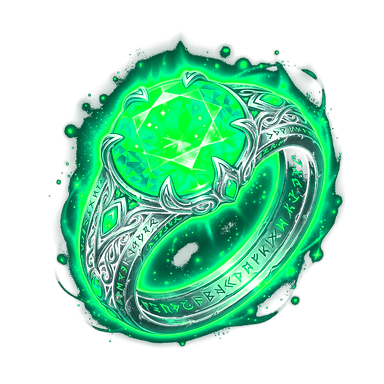
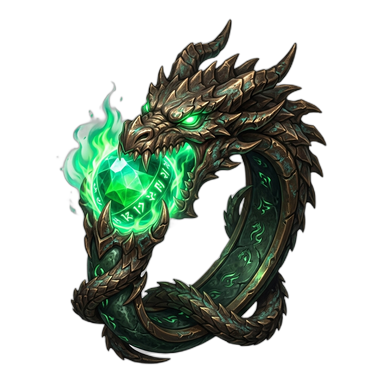
feat(packages): add 10 boss chests per 1 royal chest to all packages

diff --git a/src/App.jsx b/src/App.jsx
@@ -53,8 +53,9 @@ const BOSS_GAME_PACKAGES = [
     badgeColor: 'from-emerald-500 to-teal-500',
     coins: 200,
     royalChests: 2,
+    bossChests: 20,
     attacks: 2000,
-    extraDesc: '200 Xu + 2 Rương Hoàng Kim + 2.000 Lượt Đánh',
+    extraDesc: '200 Xu + 2 Rương Hoàng Kim + 20 Rương Boss + 2.000 Lượt Đánh',
     image: '/game-assets/royal_chest.png',
     items: []
   },
@@ -66,8 +67,9 @@ const BOSS_GAME_PACKAGES = [
     badgeColor: 'from-blue-500 to-cyan-500',
     coins: 500,
     royalChests: 5,
+    bossChests: 50,
     attacks: 5000,
-    extraDesc: '500 Xu + 5 Rương Hoàng Kim + 5.000 Lượt Đánh',
+    extraDesc: '500 Xu + 5 Rương Hoàng Kim + 50 Rương Boss + 5.000 Lượt Đánh',
     image: '/game-assets/royal_chest.png',
     items: []
   },
@@ -79,8 +81,9 @@ const BOSS_GAME_PACKAGES = [
     badgeColor: 'from-indigo-500 to-purple-500',
     coins: 1000,
     royalChests: 10,
+    bossChests: 100,
     attacks: 10000,
-    extraDesc: '1.000 Xu + 10 Rương Hoàng Kim + 10.000 Lượt Đánh',
+    extraDesc: '1.000 Xu + 10 Rương Hoàng Kim + 100 Rương Boss + 10.000 Lượt Đánh',
     image: '/game-assets/royal_chest.png',
     items: []
   },
@@ -92,8 +95,9 @@ const BOSS_GAME_PACKAGES = [
     badgeColor: 'from-purple-500 to-pink-500',
     coins: 2000,
     royalChests: 20,
+    bossChests: 200,
     attacks: 20000,
-    extraDesc: '2.000 Xu + 20 Rương Hoàng Kim + 20.000 Lượt Đánh',
+    extraDesc: '2.000 Xu + 20 Rương Hoàng Kim + 200 Rương Boss + 20.000 Lượt Đánh',
     image: '/game-assets/royal_chest.png',
     items: []
   },
@@ -105,8 +109,9 @@ const BOSS_GAME_PACKAGES = [
     badgeColor: 'from-amber-500 to-orange-500',
     coins: 6000,
     royalChests: 60,
+    bossChests: 600,
     attacks: 60000,
-    extraDesc: '6.000 Xu Game VIP + 60 Rương Hoàng Kim + 60.000 Lượt Đánh (KM +20%)',
+    extraDesc: '6.000 Xu Game VIP + 60 Rương Hoàng Kim + 600 Rương Boss + 60.000 Lượt Đánh (KM +20%)',
     image: '/game-assets/royal_chest.png',
     items: []
   },
@@ -118,8 +123,9 @@ const BOSS_GAME_PACKAGES = [
     badgeColor: 'from-rose-500 to-red-600',
     coins: 13000,
     royalChests: 130,
+    bossChests: 1300,
     attacks: 130000,
-    extraDesc: '13.000 Xu Game VIP + 130 Rương Hoàng Kim + 130.000 Lượt Đánh (KM +30%)',
+    extraDesc: '13.000 Xu Game VIP + 130 Rương Hoàng Kim + 1.300 Rương Boss + 130.000 Lượt Đánh (KM +30%)',
     image: '/game-assets/royal_chest.png',
     items: []
   },
@@ -131,8 +137,9 @@ const BOSS_GAME_PACKAGES = [
     badgeColor: 'from-emerald-400 to-green-600 shadow-[0_0_15px_rgba(16,185,129,0.4)]',
     coins: 20000,
     royalChests: 200,
+    bossChests: 2000,
     attacks: 200000,
-    extraDesc: '20.000 Xu + 200 Rương HK + 200.000 Lượt + 💥 1x Nhẫn Cổ Đại 5⭐',
+    extraDesc: '20.000 Xu + 200 Rương HK + 2.000 Rương Boss + 200.000 Lượt + 💥 1x Nhẫn Cổ Đại 5⭐',
     image: '/game-assets/ring_codai.png',
     items: [
       {
@@ -158,8 +165,9 @@ const BOSS_GAME_PACKAGES = [
     badgeColor: 'from-yellow-400 via-amber-500 to-red-600 shadow-[0_0_20px_rgba(234,179,8,0.6)] animate-pulse',
     coins: 37500,
     royalChests: 375,
+    bossChests: 3750,
     attacks: 375000,
-    extraDesc: '37.500 Xu + 375 Rương HK + 375.000 Lượt + 🌌 1x Nhẫn Thượng Cổ 1⭐',
+    extraDesc: '37.500 Xu + 375 Rương HK + 3.750 Rương Boss + 375.000 Lượt + 🌌 1x Nhẫn Thượng Cổ 1⭐',
     image: '/game-assets/ring_thuongco.png',
     items: [
       {
@@ -2997,6 +3005,50 @@ const App = () => {
   };
 
 
+  // --- HÀM CHUẨN HÓA DỮ LIỆU NGƯỜI CHƠI TỪ BẢNG GAME_PLAYERS (SUPABASE) ---
+  const parseGamePlayerRecord = (dbPlayer) => {
+    if (!dbPlayer) return null;
+    let wp = null, ar = null, nk = null, rg = null, pt = null;
+    try { wp = dbPlayer.weapon ? (typeof dbPlayer.weapon === 'string' ? JSON.parse(dbPlayer.weapon) : dbPlayer.weapon) : null; } catch (e) { wp = { name: dbPlayer.weapon }; }
+    try { ar = dbPlayer.armor ? (typeof dbPlayer.armor === 'string' ? JSON.parse(dbPlayer.armor) : dbPlayer.armor) : null; } catch (e) { ar = { name: dbPlayer.armor }; }
+    try { nk = dbPlayer.necklace ? (typeof dbPlayer.necklace === 'string' ? JSON.parse(dbPlayer.necklace) : dbPlayer.necklace) : null; } catch (e) { nk = { name: dbPlayer.necklace }; }
+    try { rg = dbPlayer.ring ? (typeof dbPlayer.ring === 'string' ? JSON.parse(dbPlayer.ring) : dbPlayer.ring) : null; } catch (e) { rg = { name: dbPlayer.ring }; }
+    try { pt = dbPlayer.pet ? (typeof dbPlayer.pet === 'string' ? JSON.parse(dbPlayer.pet) : dbPlayer.pet) : null; } catch (e) { pt = { name: dbPlayer.pet }; }
+
+    return {
+      exists: true,
+      user_id: dbPlayer.user_id,
+      nickname: dbPlayer.nickname || dbPlayer.user_id,
+      level: dbPlayer.level || 1,
+      cp: dbPlayer.cp || 0,
+      bonus_attacks: dbPlayer.bonus_attacks || 0,
+      royal_chests: dbPlayer.royal_chests || 0,
+      boss_chests: dbPlayer.boss_chests || 0,
+      avatar_url: dbPlayer.avatar_url,
+      weapon: wp,
+      armor: ar,
+      pet: pt,
+      ring: rg,
+      necklace: nk,
+      exp: wp?.player_exp || 0,
+      bonus_coins: (wp?.player_coins !== undefined && wp?.player_coins !== null) ? Number(wp.player_coins) : (dbPlayer.bonus_coins || dbPlayer.coins || 0),
+      total_dmg: wp?.total_dmg || 0,
+      has_x2_rate: wp?.has_x2_rate || false,
+      platform: wp?.platform || 'tiktok',
+      inventory: (() => {
+        const raw = wp?.inventory || dbPlayer?.inventory;
+        if (Array.isArray(raw)) return raw;
+        if (typeof raw === 'string') {
+          try {
+            const pJson = JSON.parse(raw);
+            if (Array.isArray(pJson)) return pJson;
+          } catch (e) { }
+        }
+        return [];
+      })()
+    };
+  };
+
   // --- HÀM TRA CỨU NGƯỜI CHƠI GAME BOSS MỘNG THIÊN HUYỄN ---
   const handleCheckBossPlayer = async (targetIdInput, isSilent = true) => {
     const rawId = (targetIdInput !== undefined ? targetIdInput : bossTargetId).trim();
@@ -3019,45 +3071,7 @@ const App = () => {
           .maybeSingle();
 
         if (dbPlayer) {
-          let wp = null, ar = null, nk = null, rg = null, pt = null;
-          try { wp = dbPlayer.weapon ? (typeof dbPlayer.weapon === 'string' ? JSON.parse(dbPlayer.weapon) : dbPlayer.weapon) : null; } catch (e) { wp = { name: dbPlayer.weapon }; }
-          try { ar = dbPlayer.armor ? (typeof dbPlayer.armor === 'string' ? JSON.parse(dbPlayer.armor) : dbPlayer.armor) : null; } catch (e) { ar = { name: dbPlayer.armor }; }
-          try { nk = dbPlayer.necklace ? (typeof dbPlayer.necklace === 'string' ? JSON.parse(dbPlayer.necklace) : dbPlayer.necklace) : null; } catch (e) { nk = { name: dbPlayer.necklace }; }
-          try { rg = dbPlayer.ring ? (typeof dbPlayer.ring === 'string' ? JSON.parse(dbPlayer.ring) : dbPlayer.ring) : null; } catch (e) { rg = { name: dbPlayer.ring }; }
-          try { pt = dbPlayer.pet ? (typeof dbPlayer.pet === 'string' ? JSON.parse(dbPlayer.pet) : dbPlayer.pet) : null; } catch (e) { pt = { name: dbPlayer.pet }; }
-
-          foundPlayer = {
-            exists: true,
-            user_id: dbPlayer.user_id,
-            nickname: dbPlayer.nickname || dbPlayer.user_id,
-            level: dbPlayer.level || 1,
-            cp: dbPlayer.cp || 0,
-            bonus_attacks: dbPlayer.bonus_attacks || 0,
-            royal_chests: dbPlayer.royal_chests || 0,
-            boss_chests: dbPlayer.boss_chests || 0,
-            avatar_url: dbPlayer.avatar_url,
-            weapon: wp,
-            armor: ar,
-            pet: pt,
-            ring: rg,
-            necklace: nk,
-            exp: wp?.player_exp || 0,
-            bonus_coins: (wp?.player_coins !== undefined && wp?.player_coins !== null) ? Number(wp.player_coins) : (dbPlayer.bonus_coins || dbPlayer.coins || 0),
-            total_dmg: wp?.total_dmg || 0,
-            has_x2_rate: wp?.has_x2_rate || false,
-            platform: wp?.platform || 'tiktok',
-            inventory: (() => {
-              const raw = wp?.inventory || dbPlayer?.inventory;
-              if (Array.isArray(raw)) return raw;
-              if (typeof raw === 'string') {
-                try {
-                  const pJson = JSON.parse(raw);
-                  if (Array.isArray(pJson)) return pJson;
-                } catch (e) { }
-              }
-              return [];
-            })()
-          };
+          foundPlayer = parseGamePlayerRecord(dbPlayer);
         }
       } catch (err) {
         console.log("Supabase player lookup:", err);
@@ -3148,6 +3162,50 @@ const App = () => {
       handleCheckBossPlayer(bossTargetId);
     }
   }, [showBagModal]);
+
+  // --- TỰ ĐỘNG ĐỒNG BỘ REALTIME DỮ LIỆU GAME (GAME_PLAYERS) TỪ SUPABASE ---
+  useEffect(() => {
+    const gamePlayersChannel = supabase
+      .channel('realtime-game-players')
+      .on(
+        'postgres_changes',
+        { event: '*', schema: 'public', table: 'game_players' },
+        (payload) => {
+          const newRec = payload.new;
+          if (!newRec) return;
+
+          // 1. Cập nhật Sàn Đấu Giá Chợ Trời nếu có thay đổi vật phẩm từ game hoặc web
+          if (newRec.user_id === '__auction_market__') {
+            if (typeof fetchAuctionMarketData === 'function') {
+              fetchAuctionMarketData();
+            }
+            return;
+          }
+
+          // 2. Nhận diện nhân vật đang hiển thị trên giao diện hoặc nhân vật đã liên kết
+          const target = (bossTargetId || '').trim().toLowerCase().replace(/^@/, '');
+          const linked = (currentUser?.linked_game_id || '').trim().toLowerCase().replace(/^@/, '');
+          const rowUid = (newRec.user_id || '').trim().toLowerCase().replace(/^@/, '');
+          const rowNick = (newRec.nickname || '').trim().toLowerCase().replace(/^@/, '');
+
+          const isCurrentTarget = target && (rowUid === target || rowNick === target);
+          const isLinkedTarget = linked && (rowUid === linked || rowNick === linked);
+
+          if (isCurrentTarget || isLinkedTarget) {
+            const parsed = parseGamePlayerRecord(newRec);
+            if (parsed) {
+              setBossPlayerSummary(parsed);
+              setBossPlayerNotFound(false);
+            }
+          }
+        }
+      )
+      .subscribe();
+
+    return () => {
+      supabase.removeChannel(gamePlayersChannel);
+    };
+  }, [bossTargetId, currentUser?.linked_game_id]);
 
   // --- HÀM TẠO MÃ OTP LIÊN KẾT TÀI KHOẢN (REALTIME + POLLING + TAB FOCUS) ---
   const handleGenerateLinkOtp = async () => {
@@ -3573,7 +3631,7 @@ const App = () => {
       rewards: {
         attacks: pkg.attacks || 0,
         royal_chests: pkg.royalChests || 0,
-        boss_chests: 0,
+        boss_chests: pkg.bossChests || (pkg.royalChests ? pkg.royalChests * 10 : 0),
         coins: pkg.coins || 0,
         has_x2_rate: Boolean(pkg.hasX2Rate),
         items: pkg.items || []
@@ -3830,7 +3888,7 @@ const App = () => {
                           ⚔ Nạp Game Mộng Thiên Huyễn (Tự Động)
                         </h4>
                         <p className="text-[10px] md:text-xs text-slate-400 mb-2 flex-grow whitespace-pre-wrap text-center px-1 line-clamp-2">
-                          Nạp Xu Game, Rương Hoàng Kim, Lượt Đánh Boss & Nhẫn Thần Binh. Tự động chuyển quà vào acc ngay sau 1 giây!
+                          Nạp Xu Game, Rương Hoàng Kim, Rương Boss, Lượt Đánh Boss & Nhẫn Thần Binh. Tự động chuyển quà vào acc ngay sau 1 giây!
                         </p>
 
                         <div className="border-t border-slate-800 pt-2 md:pt-4 mt-auto w-full">
@@ -7288,7 +7346,7 @@ const App = () => {
               ⚔ NẠP GAME <span className="text-transparent bg-clip-text bg-gradient-to-r from-amber-400 via-rose-400 to-purple-400">MỘNG THIÊN HUYỄN</span>
             </h1>
             <p className="text-slate-300 max-w-3xl mx-auto text-sm md:text-base leading-relaxed mb-6">
-              Hệ thống tự động chuyển thẳng <strong className="text-amber-400">Lượt Đánh, Rương Hoàng Kim, Xu Nâng Cấp & Trang Bị Thần Binh</strong> vào tài khoản game của bạn ngay khi bấm Mua. Loa Livestream sẽ tự động đọc tên cảm ơn và hiệu ứng nạp VIP sẽ phát sáng rực rỡ!
+              Hệ thống tự động chuyển thẳng <strong className="text-amber-400">Lượt Đánh, Rương Hoàng Kim, Rương Boss, Xu Nâng Cấp & Trang Bị Thần Binh</strong> vào tài khoản game của bạn ngay khi bấm Mua. Loa Livestream sẽ tự động đọc tên cảm ơn và hiệu ứng nạp VIP sẽ phát sáng rực rỡ!
             </p>
 
             {/* KHU VỰC LIÊN KẾT TÀI KHOẢN & THÔNG TIN NHÂN VẬT GAME (BỎ KIỂM TRA ID) */}
@@ -7541,6 +7599,10 @@ const App = () => {
                         <Crown size={15} className="text-yellow-400 shrink-0" />
                         <span>+{pkg.royalChests} Rương Hoàng Kim VIP</span>
                       </div>
+                      <div className="flex items-center gap-2 text-amber-300 font-semibold px-1">
+                        <Package size={15} className="text-amber-400 shrink-0" />
+                        <span>+{new Intl.NumberFormat('vi-VN').format(pkg.bossChests || pkg.royalChests * 10)} Rương Boss (Tặng Kèm)</span>
+                      </div>
                       <div className="flex items-center gap-2 text-slate-200 font-semibold px-1">
                         <Swords size={15} className="text-rose-400 shrink-0" />
                         <span>+{new Intl.NumberFormat('vi-VN').format(pkg.attacks)} Lượt Đánh Boss</span>
@@ -7649,6 +7711,7 @@ const App = () => {
                       <span>+{new Intl.NumberFormat('vi-VN').format(selectedBossPackage.coins)} Xu Game (Tiền Tệ Quý Mua Đồ Shop)</span>
                     </p>
                     <p>• +{selectedBossPackage.royalChests} Rương Hoàng Kim VIP</p>
+                    <p className="text-amber-300 font-bold">• +{new Intl.NumberFormat('vi-VN').format(selectedBossPackage.bossChests || selectedBossPackage.royalChests * 10)} Rương Boss Chiến Tích (Tặng kèm)</p>
                     <p>• +{new Intl.NumberFormat('vi-VN').format(selectedBossPackage.attacks)} Lượt Đánh Boss</p>
                     {selectedBossPackage.items && selectedBossPackage.items.length > 0 && (
                       <p className="text-amber-300 font-bold">• 💥 Tặng kèm: x1 {selectedBossPackage.items[0].name} ({selectedBossPackage.items[0].stars}⭐)</p>
